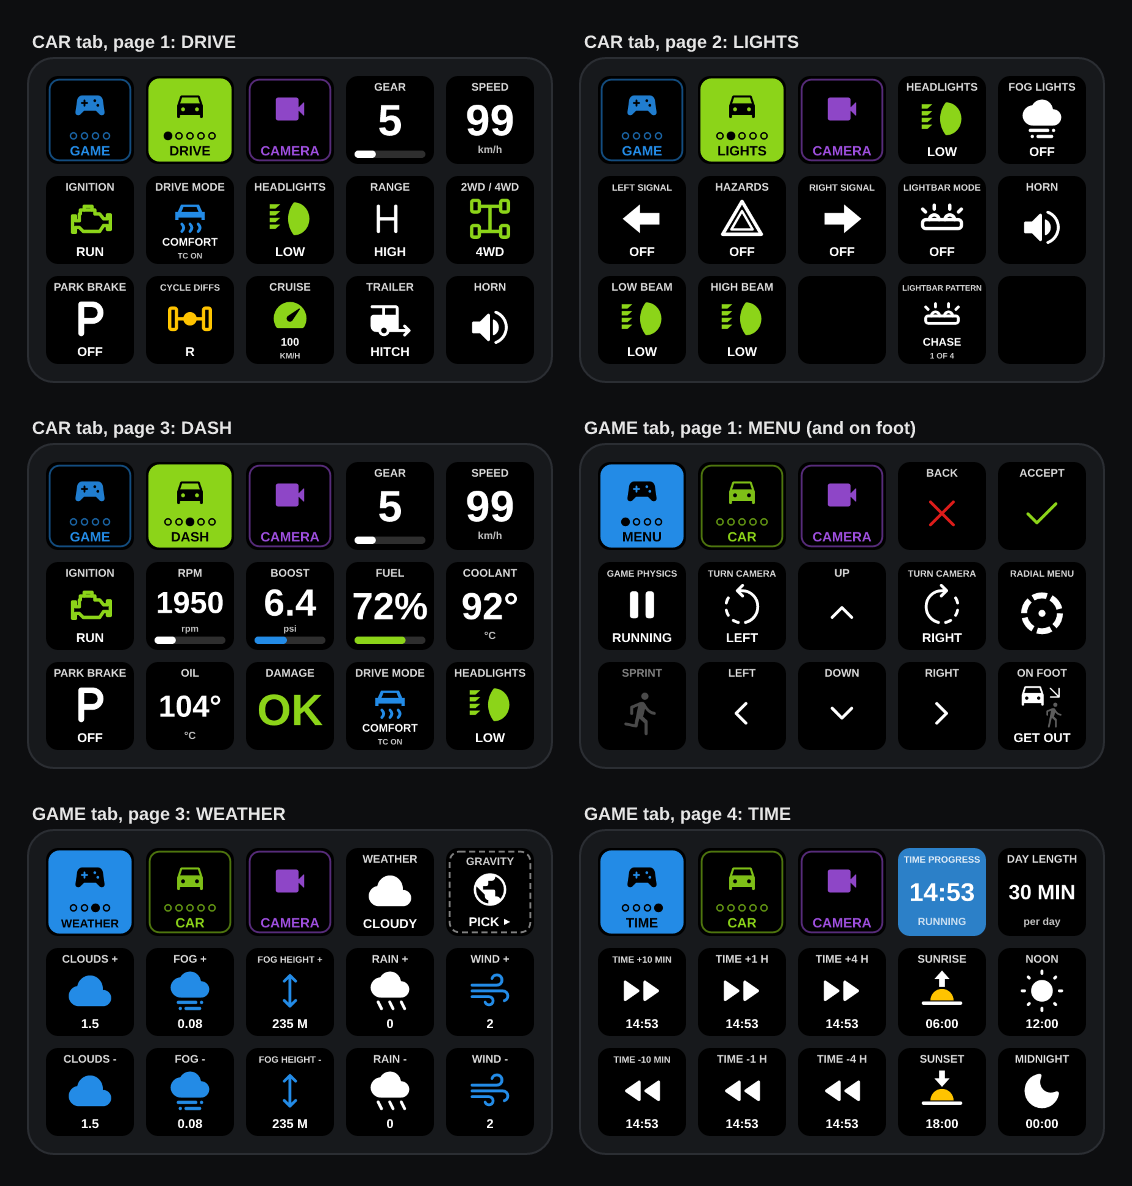
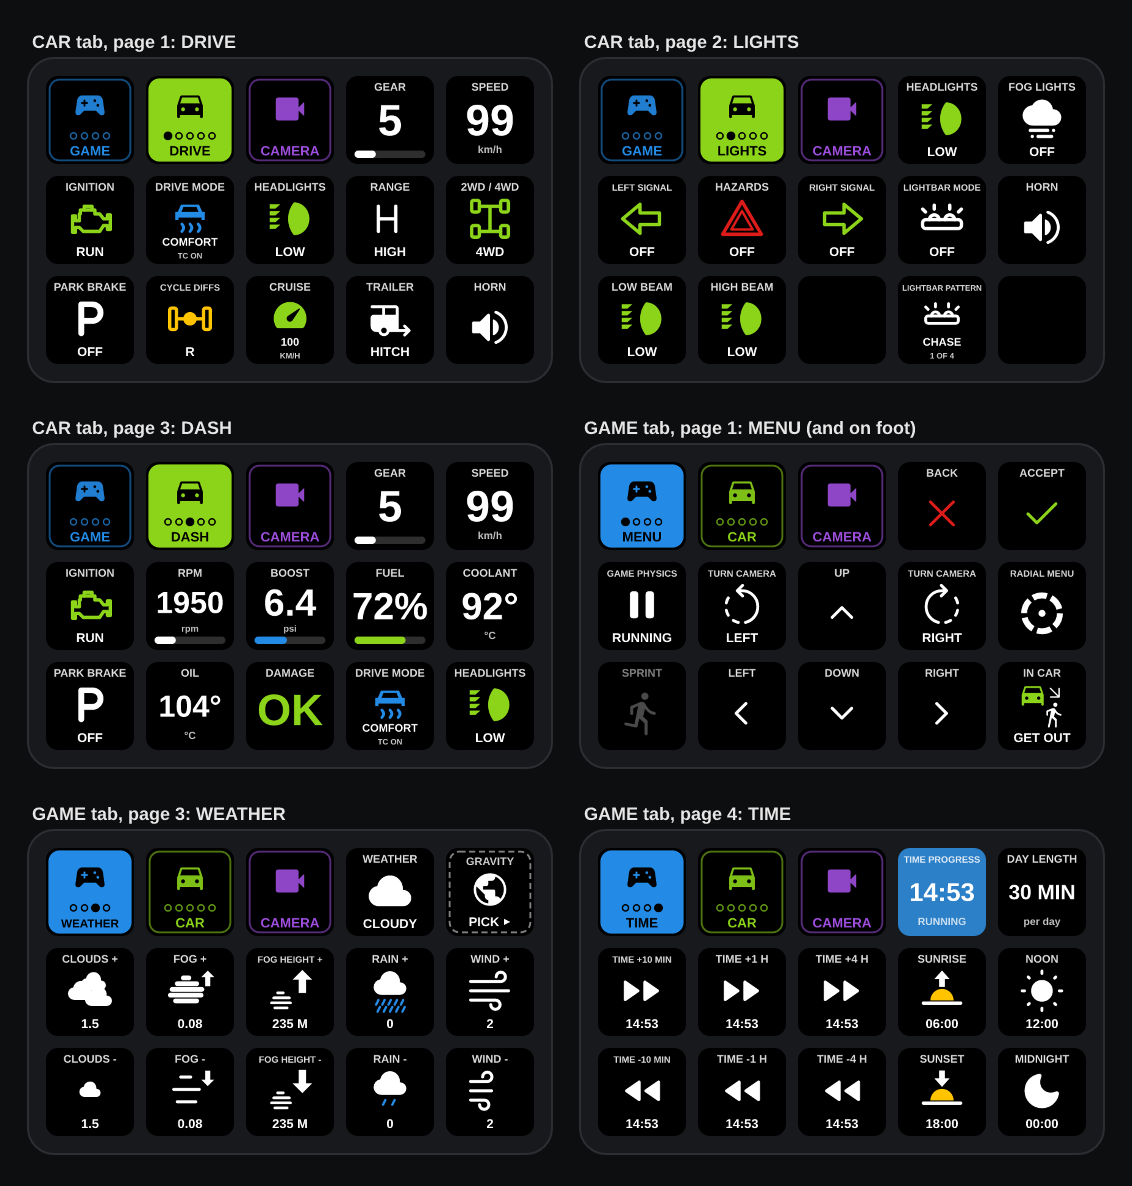
0.2.13: Back acts as Escape in game, Vehicles toggles, lightbar without siren
- Game status reports the UI page (ui_router route); MP-MCP 0.1.6 too.
- Back: in the game opens the pause menu (toggleMenues), in a menu goes back.
- Vehicles: second press (vehicle list open) returns to the game.
- Lightbar: vehicles without a siren sound only have off / lights; the game
  wraps state 2 to 0, so the verify check failed with ERROR. Expect the
  wrapped value, report lbs, and cycle OFF / LIGHTS on those cars.
- Release notes for 0.2.12 + 0.2.13; README pictures refreshed.

Claude-Session: https://claude.ai/code/session_01GbrUqxLtYbk74SkTvwXFfA

diff --git a/src/gamefns.ts b/src/gamefns.ts
@@ -16,8 +16,8 @@ type GameFn = {
 	walk?: string;
 	/** In the free camera: held as this input action instead (the arrows fly the camera). */
 	fly?: string;
-	/** Tap: trigger_action name. */
-	act?: string;
+	/** Tap: trigger_action name (or picked from the game state, e.g. the menu page that's open). */
+	act?: string | ((ge: GeStatus) => string);
 	/** Hold: trigger_action with down/up. */
 	hold?: string;
 	/** Anything else: an MCP tool call. */
@@ -86,7 +86,8 @@ const walkHeld = new Map<string, string>();
 export const GAME_FUNCS: Record<string, GameFn> = {
 	// fixed buttons
 	accept: { label: "Accept", key: "accept", act: "menu_item_select" },
-	back: { label: "Back", key: "back", act: "menu_item_back" },
+	// in the game (no menu open) Back opens the pause menu, like Escape; in a menu it goes back
+	back: { label: "Back", key: "back", act: (g) => (g.route === "play" ? "toggleMenues" : "menu_item_back") },
 	pause: { label: "Pause", key: "pause", act: "pause", state: (g) => (g.paused ? { state: "on", value: "PAUSED" } : { state: "off", value: "RUNNING" }) },
 	repair: { label: "Repair", key: "repair", act: "recover_vehicle_alt" },
 	recover: { label: "Recover", key: "recover", tool: ["recover_vehicle", {}] },
@@ -95,7 +96,13 @@ export const GAME_FUNCS: Record<string, GameFn> = {
 	// gameplay_walk isn't always loaded (e.g. after a level load through MCP), so load it first
 	walk: { label: "Get in / out", key: "walk", mp: () => ({ fn: "walk" }), lua: "if not gameplay_walk then extensions.load('gameplay_walk') end gameplay_walk.toggleWalkingMode() return 'ok'", state: (g) => (g.walking ? { state: "on", value: "GET IN" } : { state: "off", value: "GET OUT" }) },
 	map: { label: "Map", key: "map", act: "toggleBigMap" },
-	vehicles: { label: "Vehicles", key: "vehicles", act: "vehicle_selector", menu: "vehicle_selector" },
+	// a second press (vehicle list open) closes it and returns to the game
+	vehicles: {
+		label: "Vehicles",
+		key: "vehicles",
+		act: (g) => (g.route?.startsWith("pause.vehicleSelector") ? "toggleMenues" : "vehicle_selector"),
+		menu: "vehicle_selector",
+	},
 	radial: { label: "Radial menu", key: "radial", act: "toggleRadialMenuMulti" },
 	slowmo: {
 		label: "Slow motion",
@@ -270,7 +277,7 @@ export class GameFunction extends DeckAction {
 		}
 		if (f.lua) return { tool: "run_lua", args: { code: typeof f.lua === "function" ? f.lua(ge, st) : f.lua }, mp: f.mp?.(st), menu };
 		if (f.hold) return { tool: "trigger_action", args: { action: f.hold, state: "down" }, menu };
-		if (f.act) return { tool: "trigger_action", args: { action: f.act }, menu };
+		if (f.act) return { tool: "trigger_action", args: { action: typeof f.act === "function" ? f.act(ge) : f.act }, menu };
 		if (f.tool) return { tool: f.tool[0], args: f.tool[1], menu };
 		return null;
 	}

diff --git a/src/game.ts b/src/game.ts
@@ -17,8 +17,8 @@ import { Blocked, Mcp } from "./mcp";
 import { classify, RawControl, VControl } from "./vehcontrols";
 import { OutGauge } from "./outgauge";
 
-export const VERSION = "0.2.12";
-export const DECK_VERSION = "0.2.5"; // bump when the vehicle Lua changes, so vehicles reload it
+export const VERSION = "0.2.13";
+export const DECK_VERSION = "0.2.6"; // bump when the vehicle Lua changes, so vehicles reload it
 
 export type DiffState = "locked" | "open" | "partial" | "auto" | "lsd" | null | undefined;
 export type ModeInfo = { ctrl: string; key: string | null; name: string | null; color?: string };
@@ -45,6 +45,7 @@ export type VehicleStatus = {
 	lbm?: number; // lightbar flash pattern index (1-based), when the vehicle has more than one
 	lbn?: string; // its name (Chase, Scene...)
 	lbc?: number; // how many patterns
+	lbs?: boolean; // the lightbar has a siren (false: just off / lights)
 	horn?: number;
 	cruise?: { on: boolean; speed?: number }; // speed in m/s
 	ebrake?: number; // 0 off, 1..3
@@ -77,6 +78,7 @@ export type GeStatus = {
 	replayPaused?: boolean; // playback is paused (a stopped recording is loaded paused)
 	towing?: boolean; // the player vehicle has a trailer coupled
 	ui?: boolean; // game UI visible
+	route?: string; // the game UI's current page: "play" in the game, "pause", "pause.vehicleSelector"...
 	walking?: boolean; // player is on foot
 	/** Time of day: time 0..1 (0 = noon, 0.5 = midnight), play = clock running, dayLength in seconds. */
 	tod?: { time: number; play?: boolean; dayLength?: number };
@@ -426,6 +428,7 @@ pcall(function() g.timeScale = simTimeAuthority.get() end)
 pcall(function() g.cam = core_camera.getActiveCamName() end)
 pcall(function() g.replay = core_replay.getState() g.replayPaused = core_replay.isPaused() end)
 pcall(function() g.ui = extensions.ui_visibility.getCef() end)
+pcall(function() local s = extensions.ui_router.getState() g.route = s.currentRoute.resolved.name end)
 pcall(function() local d = core_trailerRespawn.getTrailerData() g.towing = d[be:getPlayerVehicleID(0)] ~= nil end)
 pcall(function()
   local t = core_environment.getTimeOfDay()

diff --git a/src/actions.ts b/src/actions.ts
@@ -736,7 +736,7 @@ export class Lightbar extends DeckAction {
 	command(s: VehicleStatus, st: Settings): Command {
 		if (st.press === "pattern") return s.lbc ? { action: "lightbar_mode", args: {} } : null;
 		if (s.lightbar === undefined) return null;
-		return { action: "lightbar", args: { state: (Math.round(s.lightbar) + 1) % 3 } };
+		return { action: "lightbar", args: { state: (Math.round(s.lightbar) + 1) % (s.lbs === false ? 2 : 3) } };
 	}
 }
 

diff --git a/RELEASE_NOTES.md b/RELEASE_NOTES.md
@@ -1,4 +1,32 @@
-# BeamDeckNG 0.2.11
+# BeamDeckNG 0.2.13
+
+## What's new since 0.2.11
+
+**Keys that know where you are**
+- Back (red X) in the game opens the pause menu, like Escape; in a menu it goes back a page.
+- Vehicles: a second press closes the vehicle list and returns to the game.
+- The arrows fly the free camera (as well as walking on foot and moving through menus).
+
+**Engine key.** The Ignition key has a new "Engine" display: gear and RPM over a green engine icon, and a red engine icon when it
+stalls. Pressing it starts / stops the engine, and it doubles as a shift light (yellow, then
+flashing red at the limiter).
+
+**Clearer icons**
+- Weather: one small cloud for less cloud, several for more; fog as a striped cloud (more stripes = thicker);
+  fog height as a smaller fog cloud with an up / down arrow; rain as a cloud with more or fewer blue drops; wind
+  with longer or shorter lines. All white.
+- Recover to road: a car on the road with a glint. Next vehicle: a boxed car with an arrow.
+- On foot is now IN CAR, in white and green rather than grey.
+- Hazards: red when off, flashing red when on. Indicators: green outline when off, solid flashing green when on.
+- Game UI: green when the UI is on, red when it's off.
+
+**Other changes**
+- Day length cycles through 15 min, 20 min, 30 min, 1 h, 2 h and 24 h.
+- Lightbar: fixed an ERROR on vehicles whose lightbar has no siren (work lights, tow and utility bars); on those
+  the key just switches OFF / LIGHTS.
+- BeamDeckNG MP-MCP 0.1.6: reports which game menu is open (for Back and Vehicles above).
+
+## Overview (0.2.11)
 
 **Every key reads the same way.** What the button does is on top (FRONT DIFF, CAMERA HEIGHT, LIGHTBAR PATTERN),
 the icon in the middle, and its current mode underneath (OPEN, LOCKED, 4WD...), left out when there's nothing to
